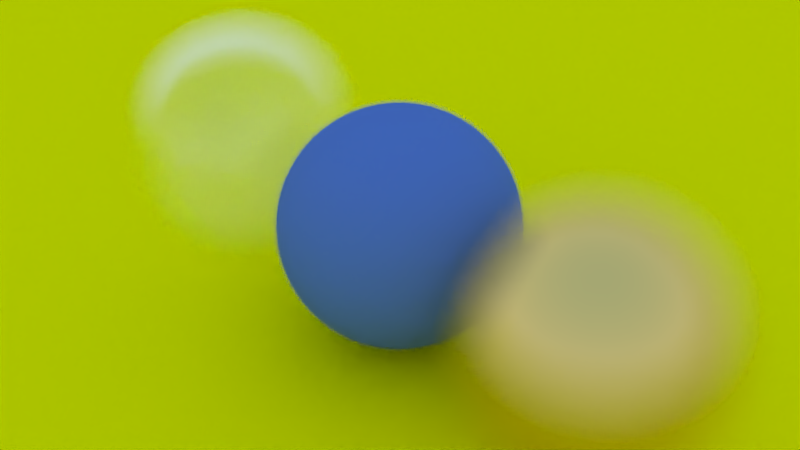
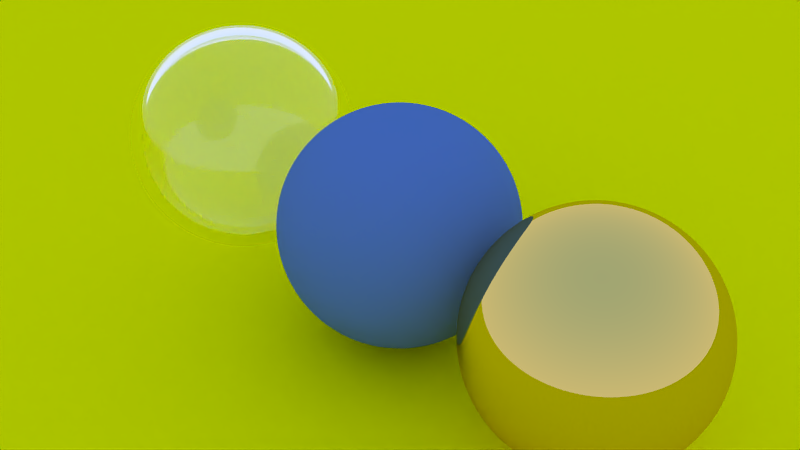
provide albedo to the denoiser

diff --git a/main.cpp b/main.cpp
@@ -8,25 +8,41 @@
 #include "OpenImageDenoise/oidn.hpp"
 #include "stb_image_write.h"
 
+color ray_world_albedo(const ray& r)
+{
+	const vec3 unit_direction = normalize(r.dir);
+	const auto t = 0.5 * (unit_direction.y + 1.0);
+	return (1.0 - t) * color(1.0, 1.0, 1.0) + t * color(0.5, 0.7, 1.0);
+}
+
+color ray_albedo(const ray& r, const hittable& world)
+{
+	hit_record rec;
+	if (world.hit(r, 0.001, infinity, rec))
+	{
+		return rec.mat_ptr->get_albedo();
+	}
+
+	return ray_world_albedo(r);
+}
+
 color ray_color(const ray& r, const hittable& world, int depth)
 {
 	hit_record rec;
 
 	// if we've exceeded the ray bounce limit, no more light is gathered
-	if(depth <= 0)
-		return color(0,0,0);
+	if (depth <= 0)
+		return color(0, 0, 0);
 
 	if (world.hit(r, 0.001, infinity, rec))
 	{
 		ray scattered;
 		color attenuation;
-		if(rec.mat_ptr->scatter(r, rec, attenuation, scattered))
-			return attenuation * ray_color(scattered, world, depth-1);
+		if (rec.mat_ptr->scatter(r, rec, attenuation, scattered))
+			return attenuation * ray_color(scattered, world, depth - 1);
 	}
 
-	const vec3 unit_direction = normalize(r.dir);
-	const auto t = 0.5 * (unit_direction.y + 1.0);
-	return (1.0 - t)*color(1.0, 1.0, 1.0) + t*color(0.5, 0.7, 1.0);
+	return ray_world_albedo(r);
 }
 
 int main()
@@ -57,27 +73,35 @@ int main()
 	const point3 lookat(0,0,-1);
 	const vec3 vup(0,1,0);
 	const auto dist_to_focus = (lookfrom-lookat).length();
-	const auto aperture = 2;
+	const auto aperture = 0;
 	const camera cam(lookfrom, lookat, vup, 20, aspect_ratio, aperture, dist_to_focus);
 
 	// Render
 	color* color_buffer = (color*)malloc(image_width * image_height * sizeof(color));
-	color* color_buffer_pointer = color_buffer;
+	color* albedo_ms_buffer = (color*)malloc(image_width * image_height * sizeof(color));
 	for (int j = image_height - 1; j >= 0; --j)
 	{
 		std::cout << "\rScanlines remaining: " << j << ' ' << std::flush;
-		for (int i = 0; i < image_width; ++i, ++color_buffer_pointer)
+		for (int i = 0; i < image_width; ++i)
 		{
-			*color_buffer_pointer = color(0,0,0);
+			const int buffer_idx = image_width*(image_height-1-j) + i;
+
+			color& sampled_color = color_buffer[buffer_idx];
+			color& albedo_ms = albedo_ms_buffer[buffer_idx];
+			sampled_color = albedo_ms = color();
+
 			for (int s = 0; s < samples_per_pixel; ++s)
 			{
 				const auto u = (i+random_float()) / (image_width-1);
 				const auto v = (j+random_float()) / (image_height-1);
 				const ray r = cam.get_ray(u, v);
-				*color_buffer_pointer += ray_color(r, world, max_depth);
+
+				albedo_ms += ray_albedo(r, world);
+				sampled_color += ray_color(r, world, max_depth);
 			}
 
-			resolve_samples(*color_buffer_pointer, samples_per_pixel);
+			resolve_samples(sampled_color, samples_per_pixel);
+			resolve_samples(albedo_ms, samples_per_pixel);
 		}
 	}
 
@@ -89,6 +113,7 @@ int main()
 	device.commit();
 	oidn::FilterRef filter = device.newFilter("RT");
 	filter.setImage("color", color_buffer, oidn::Format::Float3, image_width, image_height);
+	filter.setImage("albedo", albedo_ms_buffer, oidn::Format::Float3, image_width, image_height);
 	filter.setImage("output", denoised_buffer, oidn::Format::Float3, image_width, image_height);
 	filter.commit();
 	filter.execute();
@@ -96,22 +121,19 @@ int main()
 	std::cout << "Done.\nWriting files... ";
 
 	unsigned char* rgb888_buffer = (unsigned char*)malloc(image_width * image_height * 3);
-	unsigned char* rgb888_buffer_ptr = rgb888_buffer;
-	color_buffer_pointer = color_buffer;
 
 	// First write the pre-denoised
-	for (int i = 0; i < image_width * image_height; ++i, ++color_buffer_pointer, rgb888_buffer_ptr += 3)
+	for (int i = 0; i < image_width * image_height; ++i)
 	{
-		write_color(rgb888_buffer_ptr, *color_buffer_pointer, samples_per_pixel);
+		write_color(rgb888_buffer + i*3, color_buffer[i], samples_per_pixel);
 	}
 	stbi_write_png("predenoise.png", image_width, image_height, 3, rgb888_buffer, 0);
 
 	// Then write the denoised
-	rgb888_buffer_ptr = rgb888_buffer;
-	color_buffer_pointer = denoised_buffer;
-	for (int i = 0; i < image_width * image_height; ++i, ++color_buffer_pointer, rgb888_buffer_ptr += 3)
+	filter.execute();
+	for (int i = 0; i < image_width * image_height; ++i)
 	{
-		write_color(rgb888_buffer_ptr, *color_buffer_pointer, samples_per_pixel);
+		write_color(rgb888_buffer + i*3, denoised_buffer[i], samples_per_pixel);
 	}
 	stbi_write_png("postdenoise.png", image_width, image_height, 3, rgb888_buffer, 0);
 

diff --git a/material.h b/material.h
@@ -7,6 +7,7 @@ struct hit_record;
 class material
 {
 public:
+	virtual color get_albedo() const = 0;
 	virtual bool scatter(const ray& r_in, const hit_record& rec, color& attenuation, ray& scattered) const = 0;
 };
 
@@ -28,6 +29,8 @@ public:
 		return true;
 	}
 
+	virtual color get_albedo() const override { return albedo; }
+
 	color albedo;
 };
 
@@ -43,6 +46,8 @@ public:
 		attenuation = albedo;
 		return dot(scattered.dir, rec.normal) > 0;
 	}
+
+	virtual color get_albedo() const override { return albedo; }
 
 	color albedo;
 	float fuzz;
@@ -70,6 +75,8 @@ public:
 		scattered = ray(rec.p, direction);
 		return true;
 	}
+
+	virtual color get_albedo() const override { return color(1,1,1); }
 
 	float ir; // index of refraction
 
